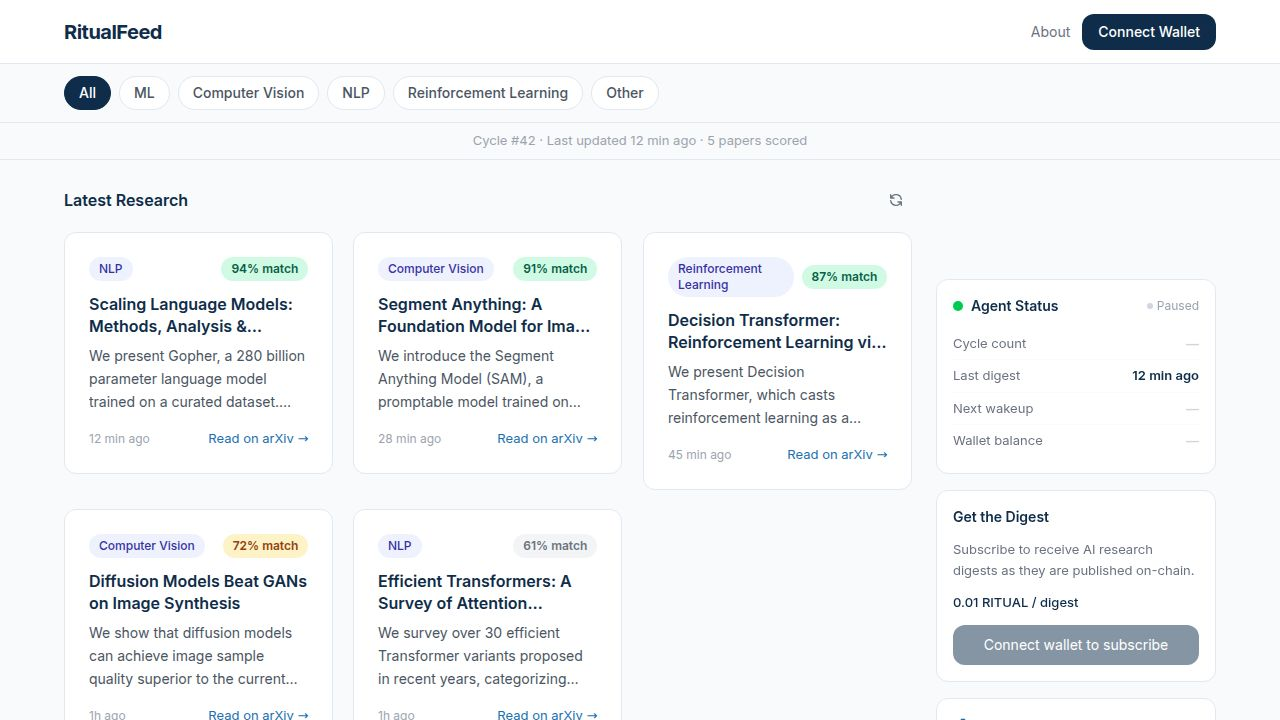
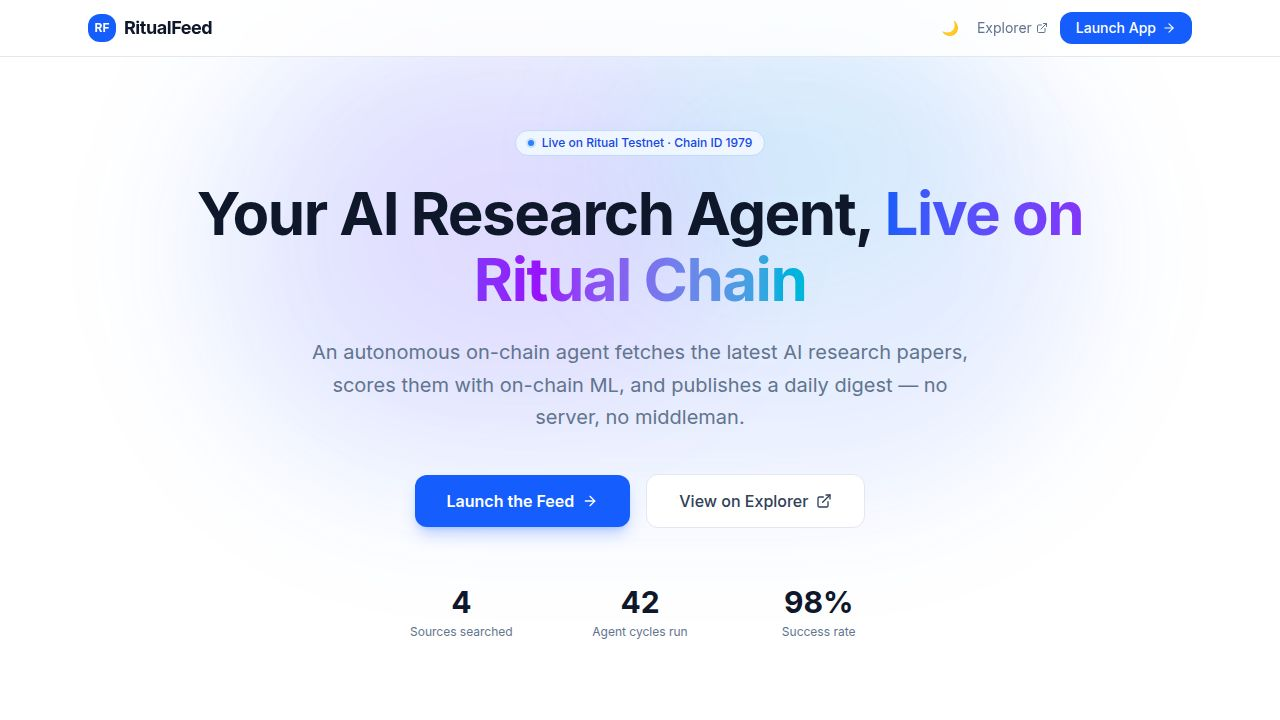
Enable direct wallet payments for subscriptions
Implement direct wallet-to-wallet subscription payments by introducing a new mode configured via the VITE_RECEIVER_ADDRESS environment variable, alongside updates to configuration, component logic, and documentation.

Replit-Commit-Author: Agent
Replit-Commit-Session-Id: 993f0570-334c-4667-b178-68c69bbe80eb
Replit-Commit-Checkpoint-Type: full_checkpoint
Replit-Commit-Event-Id: c189958a-2ab2-49c4-b301-a31e7d27d8f5
Replit-Commit-Screenshot-Url: https://storage.googleapis.com/screenshot-production-us-central1/1b54c356-4d80-4249-9607-622d2e25d974/993f0570-334c-4667-b178-68c69bbe80eb/YYycD12
Replit-Helium-Checkpoint-Created: true

diff --git a/artifacts/ritualfeed/src/hooks/useDirectSubscription.ts b/artifacts/ritualfeed/src/hooks/useDirectSubscription.ts
@@ -1,0 +1,57 @@
+import { useState, useEffect } from 'react'
+import { useAccount, useSendTransaction } from 'wagmi'
+import { toast } from 'sonner'
+import { SUBSCRIPTION_PRICE } from '../config'
+
+function storageKey(address: string) {
+  return `rf_subscribed_${address.toLowerCase()}`
+}
+
+export function useDirectSubscription(receiverAddress: `0x${string}`) {
+  const { address } = useAccount()
+  const [isSubscribed, setIsSubscribed] = useState(false)
+
+  // Sync subscription state from localStorage whenever the connected wallet changes
+  useEffect(() => {
+    if (!address) { setIsSubscribed(false); return }
+    setIsSubscribed(localStorage.getItem(storageKey(address)) === 'true')
+  }, [address])
+
+  const { sendTransaction, isPending, error } = useSendTransaction()
+
+  const handleSubscribe = () => {
+    if (!address) return
+    sendTransaction(
+      { to: receiverAddress, value: SUBSCRIPTION_PRICE },
+      {
+        onSuccess: () => {
+          localStorage.setItem(storageKey(address), 'true')
+          setIsSubscribed(true)
+          toast.success('Subscribed! Payment sent to the digest owner.')
+        },
+        onError: (err) => {
+          const msg = (err as { shortMessage?: string }).shortMessage ?? err.message
+          toast.error(`Transaction failed: ${msg}`)
+        },
+      }
+    )
+  }
+
+  const handleUnsubscribe = () => {
+    if (!address) return
+    localStorage.removeItem(storageKey(address))
+    setIsSubscribed(false)
+    toast.success('Unsubscribed.')
+  }
+
+  return {
+    isSubscribed,
+    handleSubscribe,
+    handleUnsubscribe,
+    isSubscribing: isPending,
+    isUnsubscribing: false as const,
+    subscribeError: error,
+    unsubscribeError: null,
+    refetchStatus: () => {},
+  }
+}

diff --git a/artifacts/ritualfeed/src/components/AgentStatusPanel.tsx b/artifacts/ritualfeed/src/components/AgentStatusPanel.tsx
@@ -3,8 +3,12 @@ import { Activity, TrendingUp, Zap, Wallet, ChevronRight } from 'lucide-react'
 import { useAccount, useChainId } from 'wagmi'
 import { useAgentStatus } from '../hooks/useAgentStatus'
 import { useSubscription } from '../hooks/useSubscription'
+import { useDirectSubscription } from '../hooks/useDirectSubscription'
 import { formatRelativeTime } from '../utils/paperUtils'
-import { EXPLORER_URL, CONTRACT_ADDRESS, SUBSCRIPTION_PRICE, IS_CONFIGURED } from '../config'
+import {
+  EXPLORER_URL, CONTRACT_ADDRESS, SUBSCRIPTION_PRICE,
+  IS_CONFIGURED, IS_DIRECT_PAYMENT, RECEIVER_ADDRESS,
+} from '../config'
 import { MOCK_AGENT_STATUS } from '../data/mockDigest'
 import { formatEther } from 'viem'
 import { toast } from 'sonner'
@@ -40,6 +44,14 @@ export function AgentStatusContent({ lastUpdated, onSubscribeSuccess }: AgentSta
   const { isConnected } = useAccount()
   const chainId = useChainId()
   const { cycleCount, walletBalance, nextWakeupBlock } = useAgentStatus()
+
+  // Always call both hooks (Rules of Hooks — no conditional calls)
+  const contractSub = useSubscription()
+  const directSub = useDirectSubscription(
+    RECEIVER_ADDRESS ?? '0x0000000000000000000000000000000000000000'
+  )
+
+  // Pick the active subscription hook based on configured mode
   const {
     isSubscribed,
     handleSubscribe,
@@ -47,7 +59,7 @@ export function AgentStatusContent({ lastUpdated, onSubscribeSuccess }: AgentSta
     isSubscribing,
     isUnsubscribing,
     refetchStatus,
-  } = useSubscription()
+  } = IS_DIRECT_PAYMENT ? directSub : contractSub
 
   const wrongNetwork = isConnected && chainId !== 1979
   const subPrice = formatEther(SUBSCRIPTION_PRICE)
@@ -186,7 +198,9 @@ export function AgentStatusContent({ lastUpdated, onSubscribeSuccess }: AgentSta
           <div className="space-y-3">
             <h4 className="text-sm font-semibold text-slate-900 dark:text-white">Get the Digest</h4>
             <p className="text-xs text-slate-500 dark:text-slate-400 leading-relaxed">
-              Subscribe to receive AI research digests as they are published on-chain.
+              {IS_DIRECT_PAYMENT
+                ? 'One-time payment sent directly to the digest owner on Ritual Chain.'
+                : 'Subscribe to receive AI research digests as they are published on-chain.'}
             </p>
 
             {/* Price row */}
@@ -236,17 +250,31 @@ export function AgentStatusContent({ lastUpdated, onSubscribeSuccess }: AgentSta
 
       {/* Explorer link */}
       <div className="bg-white dark:bg-slate-800 border border-slate-200 dark:border-slate-700 rounded-xl p-4">
-        <a
-          href={`${EXPLORER_URL}/address/${CONTRACT_ADDRESS}`}
-          target="_blank"
-          rel="noopener noreferrer"
-          className="text-xs text-blue-600 dark:text-blue-400 hover:underline flex items-center gap-1.5"
-        >
-          <svg className="w-3.5 h-3.5" fill="none" viewBox="0 0 24 24" stroke="currentColor">
-            <path strokeLinecap="round" strokeLinejoin="round" strokeWidth={2} d="M10 6H6a2 2 0 00-2 2v10a2 2 0 002 2h10a2 2 0 002-2v-4M14 4h6m0 0v6m0-6L10 14" />
-          </svg>
-          View contract on Ritual Explorer
-        </a>
+        {IS_DIRECT_PAYMENT && RECEIVER_ADDRESS ? (
+          <a
+            href={`${EXPLORER_URL}/address/${RECEIVER_ADDRESS}`}
+            target="_blank"
+            rel="noopener noreferrer"
+            className="text-xs text-blue-600 dark:text-blue-400 hover:underline flex items-center gap-1.5"
+          >
+            <svg className="w-3.5 h-3.5" fill="none" viewBox="0 0 24 24" stroke="currentColor">
+              <path strokeLinecap="round" strokeLinejoin="round" strokeWidth={2} d="M10 6H6a2 2 0 00-2 2v10a2 2 0 002 2h10a2 2 0 002-2v-4M14 4h6m0 0v6m0-6L10 14" />
+            </svg>
+            View receiver wallet on Explorer
+          </a>
+        ) : (
+          <a
+            href={`${EXPLORER_URL}/address/${CONTRACT_ADDRESS}`}
+            target="_blank"
+            rel="noopener noreferrer"
+            className="text-xs text-blue-600 dark:text-blue-400 hover:underline flex items-center gap-1.5"
+          >
+            <svg className="w-3.5 h-3.5" fill="none" viewBox="0 0 24 24" stroke="currentColor">
+              <path strokeLinecap="round" strokeLinejoin="round" strokeWidth={2} d="M10 6H6a2 2 0 00-2 2v10a2 2 0 002 2h10a2 2 0 002-2v-4M14 4h6m0 0v6m0-6L10 14" />
+            </svg>
+            View contract on Ritual Explorer
+          </a>
+        )}
       </div>
 
       {/* Wallet connect modal (triggered from subscribe CTA) */}

diff --git a/artifacts/ritualfeed/src/config/contract.ts b/artifacts/ritualfeed/src/config/contract.ts
@@ -1,13 +1,26 @@
-const _raw = import.meta.env.VITE_CONTRACT_ADDRESS as string | undefined
+const _rawContract = import.meta.env.VITE_CONTRACT_ADDRESS as string | undefined
+const _rawReceiver = import.meta.env.VITE_RECEIVER_ADDRESS as string | undefined
 
-export const IS_CONFIGURED = Boolean(_raw && _raw.startsWith('0x') && _raw.length === 42)
+const isValidAddress = (s: string | undefined): s is string =>
+  Boolean(s && s.startsWith('0x') && s.length === 42)
+
+// Mode 1: full DigestAgent contract connected
+export const IS_CONFIGURED = isValidAddress(_rawContract)
+
+// Mode 2: direct wallet payment (no contract needed — just a receiver address)
+export const IS_DIRECT_PAYMENT = !IS_CONFIGURED && isValidAddress(_rawReceiver)
 
 export const CONTRACT_ADDRESS: `0x${string}` = IS_CONFIGURED
-  ? (_raw as `0x${string}`)
+  ? (_rawContract as `0x${string}`)
   : '0x0000000000000000000000000000000000000000'
 
+// The wallet address that receives subscription fees in direct-payment mode
+export const RECEIVER_ADDRESS: `0x${string}` | null = IS_DIRECT_PAYMENT
+  ? (_rawReceiver as `0x${string}`)
+  : null
+
 export const SUBSCRIPTION_PRICE = BigInt(
-  import.meta.env.VITE_SUBSCRIPTION_PRICE_WEI ?? '10000000000000000'
+  import.meta.env.VITE_SUBSCRIPTION_PRICE_WEI ?? '10000000000000000' // 0.01 RITUAL
 )
 export const EXPLORER_URL =
   import.meta.env.VITE_EXPLORER_URL ?? 'https://explorer.ritualfoundation.org'

diff --git a/replit.md b/replit.md
@@ -28,19 +28,21 @@ Autonomous AI research digest frontend powered by an agent running on Ritual Cha
 
 ## Environment Variables
 
-Set these before connecting to a real contract:
+Three operating modes depending on which variables are set:
 
 | Variable | Description |
 |----------|-------------|
-| `VITE_CONTRACT_ADDRESS` | Deployed DigestAgent.sol address on Ritual testnet |
-| `VITE_SUBSCRIPTION_PRICE_WEI` | Subscription price in wei (e.g. `10000000000000000` for 0.01 RITUAL) |
+| `VITE_RECEIVER_ADDRESS` | **Your wallet address** — subscribers send 0.01 RITUAL directly here (no contract needed) |
+| `VITE_CONTRACT_ADDRESS` | Deployed DigestAgent.sol address — full on-chain mode (takes priority over receiver) |
+| `VITE_SUBSCRIPTION_PRICE_WEI` | Subscription price in wei (default: `10000000000000000` = 0.01 RITUAL) |
 | `VITE_WALLETCONNECT_PROJECT_ID` | WalletConnect project ID from cloud.walletconnect.com |
 | `VITE_EXPLORER_URL` | Block explorer base URL (default: https://explorer.ritualfoundation.org) |
 
 ## Architecture decisions
 
 - **No backend server needed** — all data comes directly from Ritual Chain via wagmi contract reads
-- **Demo mode** — when `VITE_CONTRACT_ADDRESS` is not set, the app shows mock data so the UI is always testable
+- **Three modes**: demo (no env vars) → direct wallet payment (`VITE_RECEIVER_ADDRESS`) → full contract (`VITE_CONTRACT_ADDRESS`)
+- **Direct payment mode** — `useDirectSubscription` sends native RITUAL transfer via `useSendTransaction`; subscription state stored in localStorage per wallet address
 - **ConnectKit replaced with native wagmi connectors** — avoids React 19 peer dependency conflicts; uses injected + Coinbase + WalletConnect connectors directly
 - **wagmi v2 + viem v2** — pinned for stability; wagmi v3 broke connectkit compatibility
 - **Live updates via `useWatchContractEvent`** — auto-refetches feed when `DigestPublished` fires